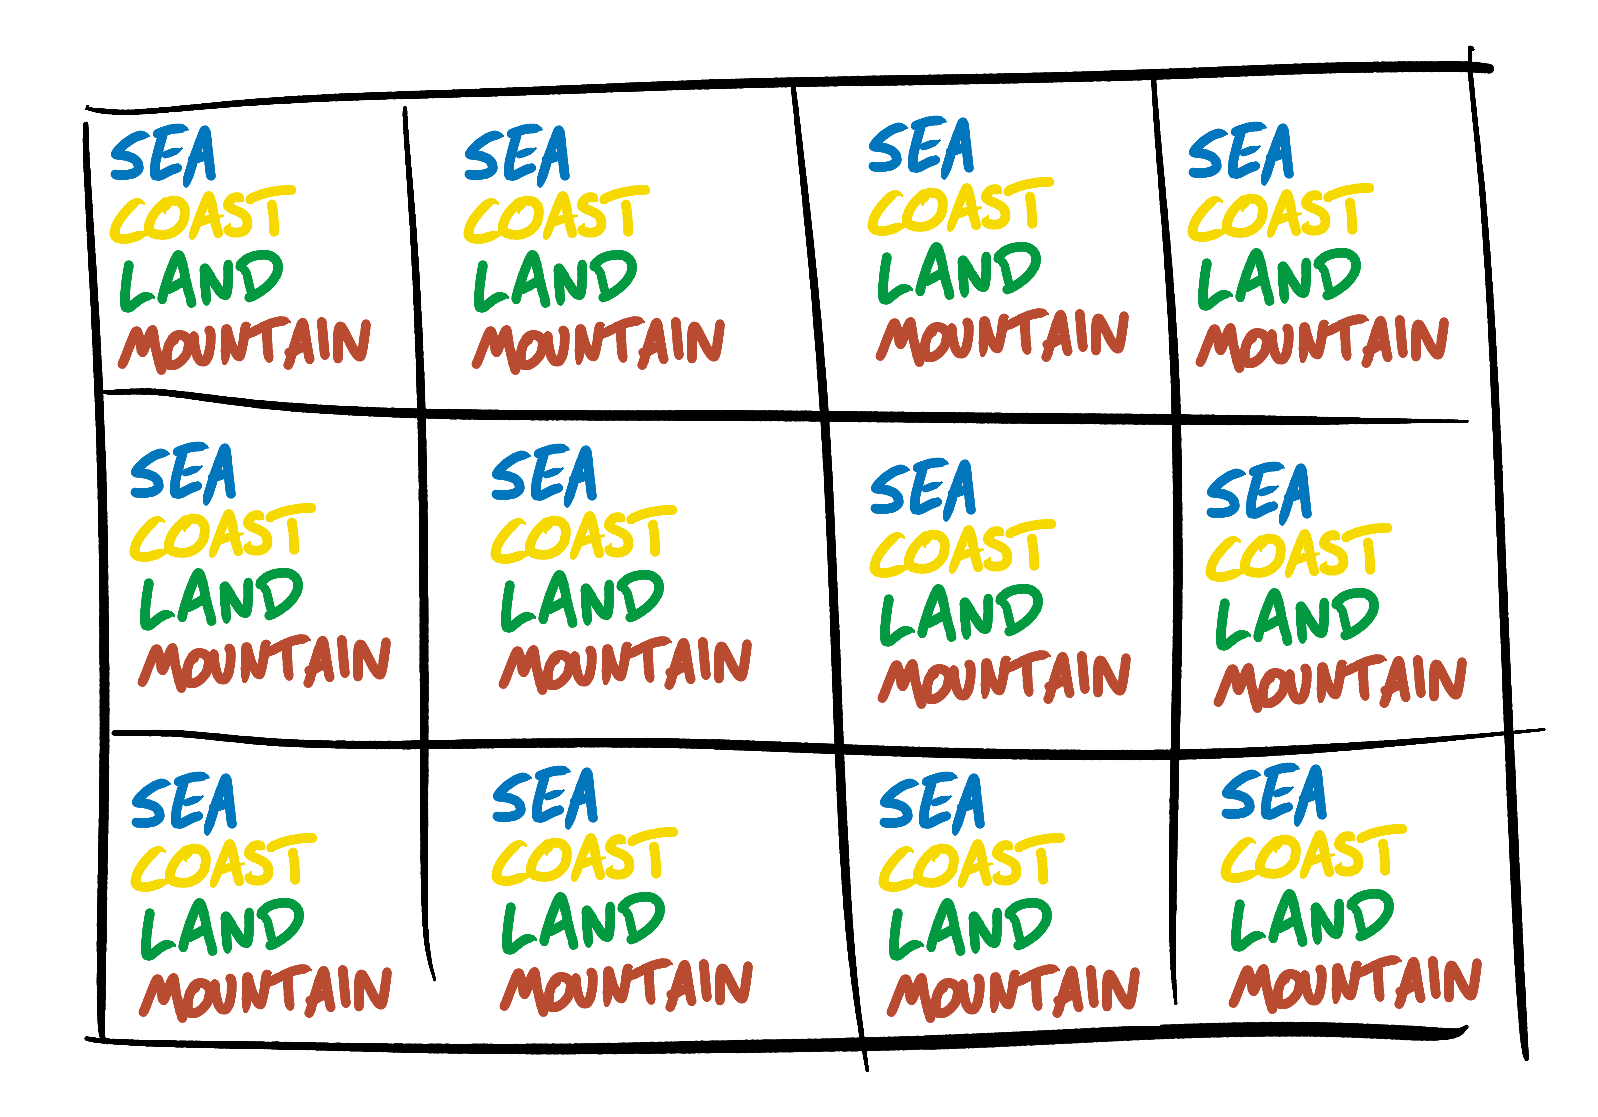
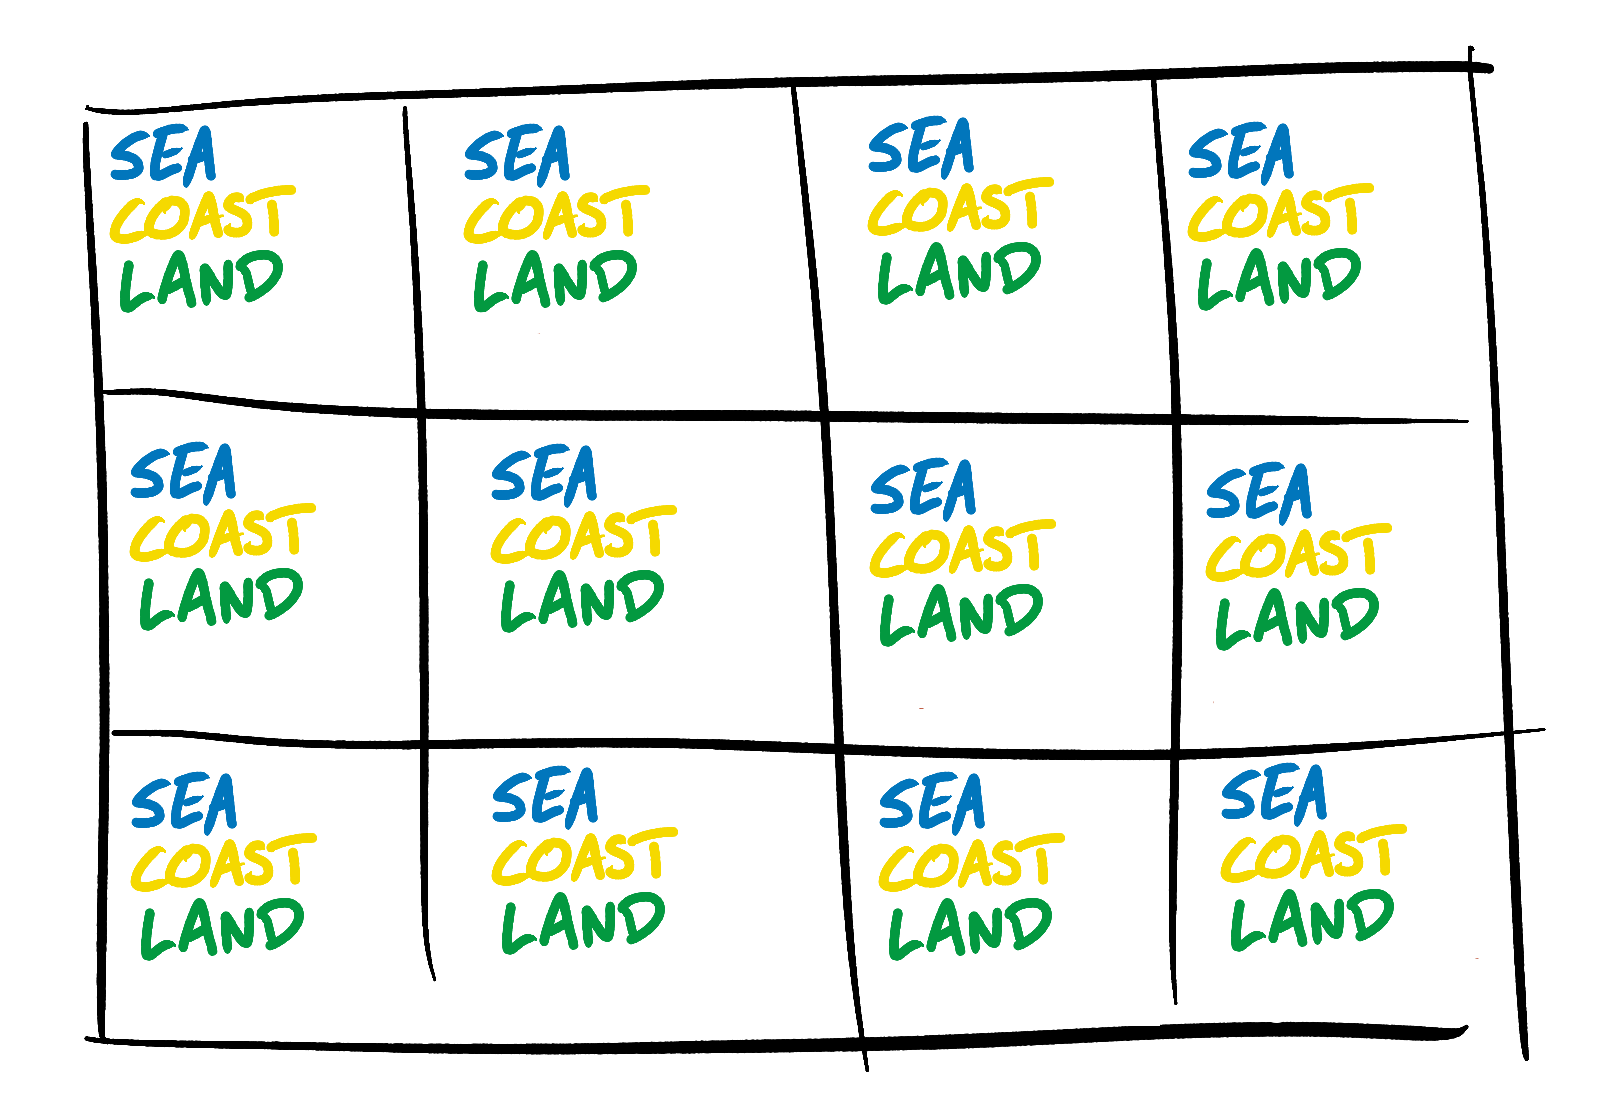
woo

diff --git a/_posts/2018-11-31-wavefunction-collapse-algorithm.md b/_posts/2018-11-31-wavefunction-collapse-algorithm.md
@@ -3,9 +3,8 @@ title: The Wavefunction Collapse Algorithm explained very clearly
 layout: post
 tags: [Computer Games]
 og_image: https://robertheaton.com/images/snake-intro.png
-published: false
 ---
-The Wavefunction Collapse Algorithm teaches your computer how to riff. It takes an archetypical input and produces procedurally-generated outputs that look like it.
+The Wavefunction Collapse Algorithm teaches your computer how to riff. The algorithm takes in an archetypical input, and produces procedurally-generated outputs that look like it.
 
 <img src="/images/wfc-examples.png" />
 *([Source][unity-wfc])*
@@ -20,13 +19,13 @@ It is most commonly used to create images, but is also capable of building [town
 [poetry]: https://github.com/mewo2/oisin
 [wfc-home]: https://github.com/mxgmn/WaveFunctionCollapse
 
-Wavefunction Collapse is very independent, and needs almost no outside help or instruction. You feed it an example of the vibe you're going for, and it figures everything else out for itself. Despite this, it is surprisingly simple. It doesn't use any neural networks, random forests, or anything else that sounds like machine learning. This makes it very clean and intuitive once you get the idea.
+Wavefunction Collapse is a very independent-minded algorithm, and needs almost no outside help or instruction. You feed it an example of the vibe you're going for, and it figures everything else out for itself. Despite this self-sufficiency, it is surprisingly simple. It doesn't use any neural networks, random forests, or anything else that sounds like machine learning. This makes it very clean and intuitive once you get the idea.
 
-Most implementations and explanations of Wavefunction Collapse are of a full, performance-optimized version of the algorithm. These are of course important and necessary, but can be challenging to make sense of from a standing start. This post gives you a boost up by describing a constrained version of Wavefunction Collapse that I've named an *Even Simpler Tiled Model*. I've also put an [example implementation of an ESTM on Github][estm-github]. The code is inefficient and slow, but very readable and well commented. Once you fully understand the technology behind an ESTM, explanations of more advanced versions of the algorithm should start to click into place too.
+Most implementations and explanations of Wavefunction Collapse are of a full, performance-optimized version of the algorithm. These are of course important and necessary, but can be challenging to make sense of from a standing start. This post keeps things clear and simple by focussing on a constrained version of Wavefunction Collapse that I've named an *Even Simpler Tiled Model*. I've also put an [example implementation of an ESTM on Github][estm-github]. The code is inefficient and slow, but very readable and well commented. Once you fully understand the technology behind an ESTM, explanations of more advanced versions of the algorithm should start to click into place too. If you want to understand the Wavefunction Collapse Algorithm, this is the place to start.
 
-[estm-github]: TODO
+[estm-github]: https://github.com/robert/wavefunction-collapse
 
-Let's start with a story.
+Let's begin with a story.
 
 ## Wedding
 
@@ -70,11 +69,11 @@ Let's start our exploration of real Wavefunction Collapse by considering a simpl
 
 ## Simple Tiled Model
 
-In a Simple Tiled Model, input and output images are built out of a small number of pre-defined tiles, and each square in the output image is affected and constrained only by its 4 immediate neighbors. For example, suppose we are generating random worlds for a top-down, 2-D game. We might have tiles for land, coast, sea and mountains, and we might have rules like "mountains can go next to land", "land can go next to coast", and "sea can go next to other sea".
+In a Simple Tiled Model, input and output images are built out of a small number of pre-defined tiles, and each square in the output image is affected and constrained only by its 4 immediate neighbors. For example, suppose we are generating random worlds for a top-down, 2-D game. We might have tiles for land, coast, and sea, and we might have rules like "coast can go next to sea", "land can go next to coast", and "sea can go next to other sea".
 
 <img src="/images/wfc-tiles.png" />
 
-A *Simple Tiled Model* accounts for its tiles' symmetry, rotation, and orientation. For example, it ensures that sea tiles are only ever placed on the correct side of a coast tile.
+A *Simple Tiled Model* accounts for its tiles' symmetry and rotation. For example, land can go next to coast, but only in the correct orientation.
 
 <img src="/images/wfc-orientation.png" />
 
@@ -92,13 +91,13 @@ The rules for an Even Simpler Tiled Model specify which tiles may be placed next
 
 If you want `SEA` tiles to be permitted to the `RIGHT` as well as the `LEFT` of `COAST` tiles then you'll need additional rules: `(SEA, COAST, RIGHT)` and `(COAST, SEA, LEFT)`.
 
-Remember that we don't have to list all of these rules ourselves. Wavefunction Collapse can produce the ruleset for an Even Simpler Tile Model by parsing an example input image and compiling a list of all the 3-tuples that it contains.
+As I mentioned earlier, we don't have to create the list of all of these rules ourselves. Wavefunction Collapse can produce the ruleset for an Even Simpler Tile Model by parsing an example input image and compiling a list of all the 3-tuples that it contains.
 
 <img src="/images/wfc-tuples.png" />
 
 By inspecting the above example image, an Even Simpler Tiled Model observes that sea tiles can only go below or to the side of coast tiles, or anywhere next to other sea tiles. It also notes that coast tiles can go to the side of land, sea or other coast tiles, but only above sea tiles and below land ones. It makes no attempt to infer any more complex rules, like "sea tiles must be adjacent to at least one other sea tile" or "every island must contain at least one land tile". No tile exerts any influence over which types of tile may or may not be placed 2 or more squares away from it. This is like a wedding plan model in which the only type of rule is "X may sit next to Y".
 
-When analyzing the example iamge, we also need to record the frequency at which each tile appears. We will later use these numbers as weights when deciding which square's wavefunction to collapse, and when choosing which tile to assign to a square when it is being collapsed.
+When using our to analyze the input image, we also need to record the frequency at which each of its tiles appears. We will later use these numbers as weights when deciding which square's wavefunction to collapse, and when choosing which tile to assign to a square when it is being collapsed.
 
 Once we know the rules that our output image must adhere to, we are ready to build and collapse our output image's wavefunction.
 
@@ -107,15 +106,16 @@ Once we know the rules that our output image must adhere to, we are ready to bui
 As in our seating plan example, we start the collapsing process with a wavefunction in which every square in our output image is in a superposition of every type of tile.
 
 <img src="/images/wfc-land-superposition.png" />
-TODO: remove mountain
 
-We start by choosing the square whose wavefunction we will collapse. In our wedding planning example we made this choice randomly. However, as `ExUtumno` has observed, this isn't how humans tend to approach these kinds of problems. Instead, they look for the squares with the lowest *entropy*. Entropy is a measurement of uncertainty and disorder. In general, a square with high entropy is one with lots of possible tiles in its wavefunction. Which tile it will eventually collapse to is still very uncertain. By contrast, a square with low entropy is one with few possible tiles remaining in its wavefunction. Which tile it will eventually collapse to is already very constrained.
+We start by choosing the square whose wavefunction we will collapse. In our wedding planning example we made this choice randomly. However, as `ExUtumno` has observed, this isn't how humans tend to approach these kinds of problems. Instead, they look for the squares with the lowest *entropy*. Entropy is a measurement of uncertainty and disorder. In general, a square with high entropy is one with lots of possible tiles remaining in its wavefunction. Which tile it will eventually collapse to is still very uncertain. By contrast, a square with low entropy is one with few possible tiles remaining in its wavefunction. Which tile it will eventually collapse to is already very constrained.
 
 For example, in an Even Simpler Tile Model, a square with no information from its surrounding squares is completely unconstrained and is still able to be any tile. It therefore has very high entropy. But a square with several of its surrounding squares already collapsed might only have 2 tiles that it can possibly take on.
 
 <img src="/images/wfc-entropy.png" />
 
-Even though this square's wavefunction has not been fully collapsed, it is still somewhat constrained, and therefore has a lower *entropy*. It is these low-entropy, restricted tiles that humans tend to focus on when working on Wavefunction Collapse-like problems manually. Even if you're not rigorously using Wavefunction Collapse to design your wedding seating plan, you will still tend to focus on the areas of the plan that already have the most strictures. You don't put Dwayne on Table 1, Seat 5, then arbitrarily leap over to putting Kathy on Table 7 (which is currently empty). Instead you seat Dwayne, then figure out who can sit next to him, then who can go next to them, and so on. I haven't seen this written anywhere else, but my intuition says that following this *minimal entropy heuristic* probably results in fewer *contradictions* than randomly choosing squares to collapse.
+Even though the wavefunction of the centre square in the above diagram has not been fully collapsed, we do know that it can't be a land tile. It has still been somewhat constrained, and therefore has a lower *entropy* than the square in the top right, which can still be either land, sea, or coast.
+
+It is low-entropy, restricted tiles that humans tend to focus on when working on Wavefunction Collapse-like problems manually. Even if you're not rigorously using Wavefunction Collapse to design your wedding seating plan, you will still tend to focus on the areas of the plan that already have the most strictures. You don't put Dwayne on Table 1, Seat 5, then arbitrarily leap over to putting Kathy on Table 7 (which is currently empty). Instead you seat Dwayne, then figure out who can sit next to him, then who can go next to them, and so on. I haven't seen this written anywhere else, but my intuition says that following this *minimal entropy heuristic* probably results in fewer *contradictions* than randomly choosing squares to collapse.
 
 The entropy formula used in Wavefunction Collapse is *Shannon Entropy*. It makes use of the tile weights that we parsed from the input image in the previous step:
 
@@ -130,15 +130,15 @@ shannon_entropy_for_square =
 
 Once we've found the square in our wavefunction with the lowest entropy, we collapse its wavefunction. We do this by randomly choosing one of the tiles still available to the square, weighted by the tile weights that we parsed from the example input. We use the weights because they give us a more realistic output image. Suppose that a square's wavefunction says that it can either be land or coast. We don't necessarily want to chose each option 50% of the time. If our input image contains more land tiles than coast tiles, we will want to reflect this bias in our output images too. We achieve this by using simple, global weights. If our example image contained `20` land tiles and `10` coast ones, we will collapse our square to land `2/3` of the time and coast the other `1/3`.
 
-We propagate the consequences of our choice through the rest of our output's wavefunction ("if that tile is sea then this one can't be land, which means that this one can't be mountain"). Once all the after-tremors have quietened down we repeat this process, using the minimal entropy heuristic to choose which tile to collapse next. We repeat this collapse-propagate loop until either our output's wavefunction is completely collapsed and we can return a result, or we reach a contradiction and return an error.
+We propagate the consequences of our choice through the rest of our output's wavefunction ("if that tile is sea then this one can't be land, which means that this one can't be coast"). Once all the after-tremors have quietened down we repeat this process, using the minimal entropy heuristic to choose which tile to collapse next. We repeat this collapse-propagate loop until either our output's wavefunction is completely collapsed and we can return a result, or we reach a contradiction and return an error.
 
 We have made a world (or an error).
 
 ## Beyond the Even Simpler Tiled Model
 
-Now that you understand the Even Simpler Tiled Model, you're ready to climb the ladder of power and complexity. Start with the Simple Tiled Model, which we touched on at the start of this post, then move on to the full Overlapping Model. In an Overlapping Model, tiles or pixels influence each other from further away. If you're into this kind of thing (and it's fine if you're not) `ExUtumno` notes that the Simple Tiled Model is analagous to an order-1 Markov chain, and more complex models are like those of higher order.
+Now that you understand the Even Simpler Tiled Model, you're ready to climb the ladder of power and complexity. Start with the Simple Tiled Model, which we touched on at the start of this post, then move on to the full Overlapping Model. In an Overlapping Model, tiles or pixels influence each other from further away. If you're into this kind of thing `ExUtumno` notes that the Simple Tiled Model is analagous to an order-1 Markov chain, and more complex models are like those of higher order.
 
-Wavefunction Collapse can accomodate additional constraints, like "this tile must be sea", or "this pixel must be red", or "there can only be one monster in the output." This is discussed in the [main project's README][wfc-home]. You can also investigate the performance optimizations made in the full implementation. There's no need to recalculate every square's entropy on every iteration, and information propagation throughout the wavefunction can be made substantially faster. These considerations become more important the larger your output image becomes.
+Wavefunction Collapse can even accomodate additional constraints, like "this tile must be sea", or "this pixel must be red", or "there can only be one monster in the output." This is discussed in the [main project's README][wfc-home]. You can also investigate the performance optimizations made in the full implementation. There's no need to recalculate every square's entropy on every iteration, and information propagation throughout the wavefunction can be made substantially faster. These considerations become more important the larger your output image becomes.
 
 Wavefunction Collapse is a pleasing and powerful tool to have in your toolbox. Next time you're planning a wedding or procedurally generating a world, keep it in mind.
 
